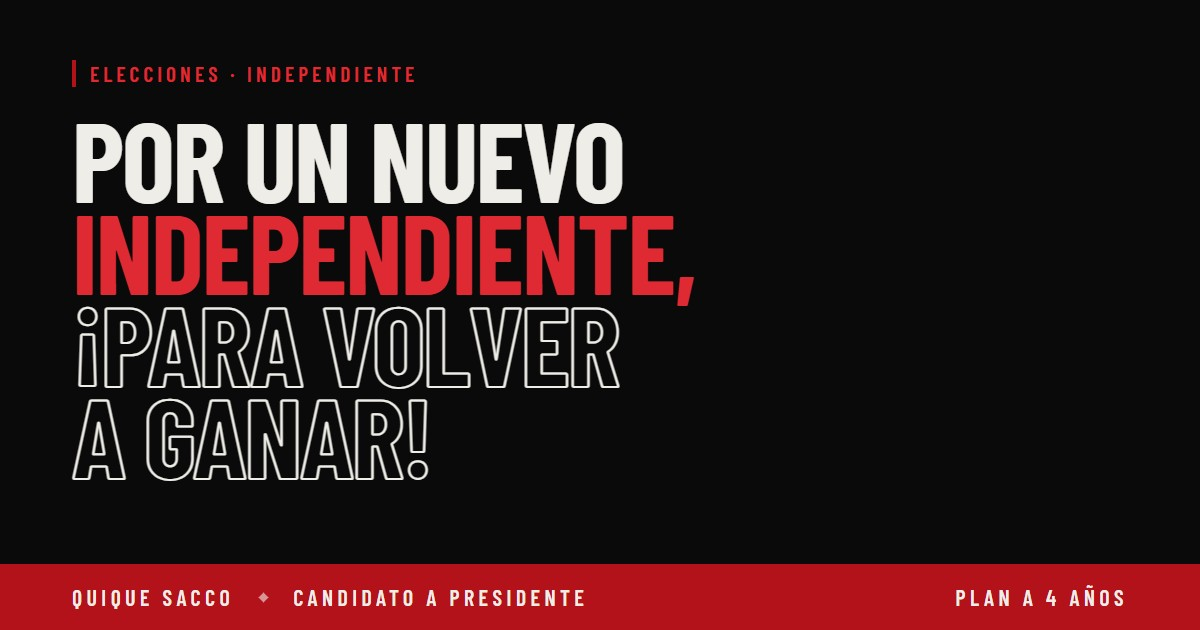
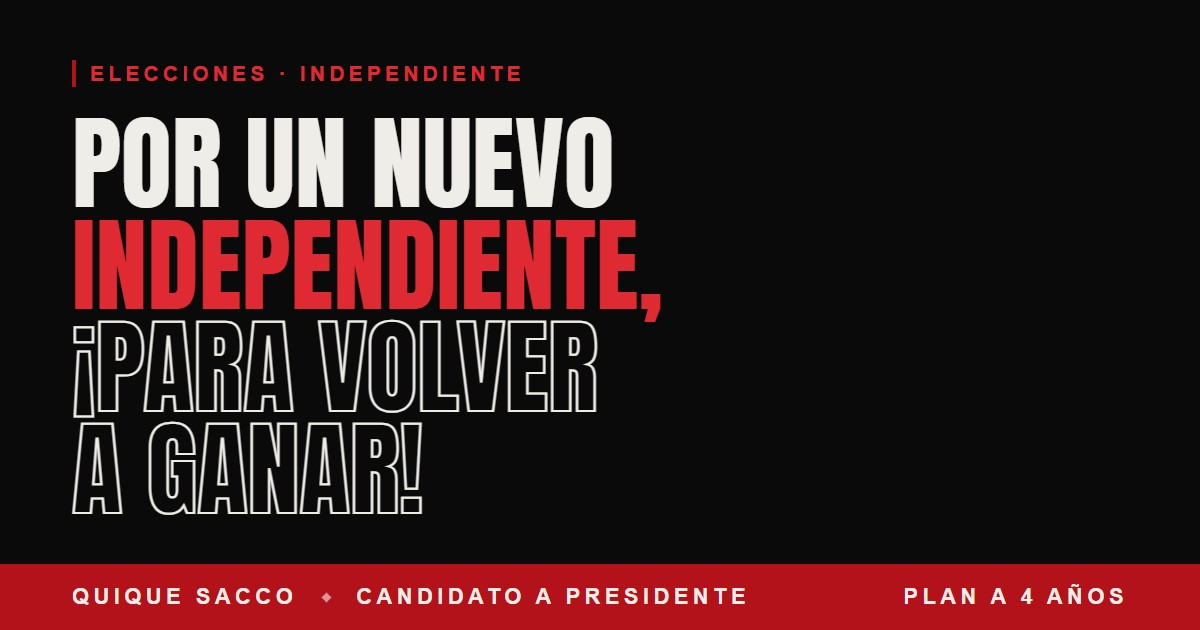
Tipografía: Anton en títulos fuertes y Helvetica en el resto
Ajusta el interlineado de los títulos para que no se corten las tildes
y regenera la imagen para redes con las mismas fuentes.

diff --git a/index.html b/index.html
@@ -25,7 +25,7 @@
 
 <link rel="preconnect" href="https://fonts.googleapis.com">
 <link rel="preconnect" href="https://fonts.gstatic.com" crossorigin>
-<link href="https://fonts.googleapis.com/css2?family=Barlow+Condensed:wght@400;500;600;700&family=Barlow:wght@300;400;500;600;700&display=swap" rel="stylesheet">
+<link href="https://fonts.googleapis.com/css2?family=Anton&display=swap" rel="stylesheet">
 
 <style>
 /* ============================================================
@@ -49,8 +49,8 @@
   --rojo-2:  #8E0E15;
   --rojo-hi: #E02A33;
 
-  --cond: "Barlow Condensed", "Arial Narrow", sans-serif;
-  --sans: "Barlow", -apple-system, BlinkMacSystemFont, "Segoe UI", system-ui, sans-serif;
+  --display: "Anton", Impact, "Arial Narrow", sans-serif;   /* títulos fuertes — Anton trae un solo peso (400) */
+  --sans: "Helvetica Neue", Helvetica, Arial, sans-serif;
 
   --page: 1280px;
   --gutter: clamp(20px, 5vw, 56px);
@@ -96,6 +96,7 @@ a{ color:inherit; }
 .ln{
   display:block; overflow:hidden;
   padding-bottom:.08em; margin-bottom:-.08em;   /* que no corte trazos ni descendentes */
+  padding-top:.22em; margin-top:-.22em;         /* ni las tildes de las mayúsculas (Anton es alta) */
 }
 .ln > i{
   display:block; font-style:normal;
@@ -114,12 +115,12 @@ a{ color:inherit; }
 
 /* ---------- tipografía ---------- */
 h1,h2,h3,.cond{
-  font-family:var(--cond); font-weight:700;
+  font-family:var(--display); font-weight:400;
   text-transform:uppercase; letter-spacing:-.005em;
-  line-height:.92; margin:0; text-wrap:balance;
+  line-height:1.04; margin:0; text-wrap:balance;
 }
 .tag{
-  display:inline-block; font-family:var(--cond); font-weight:600;
+  display:inline-block; font-family:var(--sans); font-weight:600;
   font-size:13px; letter-spacing:.2em; text-transform:uppercase;
   color:var(--rojo-hi); border-left:3px solid var(--rojo);
   padding-left:10px; line-height:1.3;
@@ -136,7 +137,7 @@ h1,h2,h3,.cond{
 .topbar.is-stuck{ border-bottom-color:var(--black-3); }
 .topbar__in{ display:flex; align-items:center; justify-content:space-between; min-height:62px; gap:var(--s-3); }
 .brand{
-  font-family:var(--cond); font-weight:700; font-size:22px; text-transform:uppercase;
+  font-family:var(--display); font-weight:400; font-size:22px; text-transform:uppercase;
   letter-spacing:.02em; text-decoration:none;
   display:inline-flex; align-items:center; min-height:44px;
 }
@@ -144,7 +145,7 @@ h1,h2,h3,.cond{
 .nav{ display:none; gap:var(--s-4); }
 @media (min-width:900px){ .nav{ display:flex; } }
 .nav a{
-  font-family:var(--cond); font-weight:600; font-size:15px;
+  font-family:var(--sans); font-weight:600; font-size:15px;
   letter-spacing:.14em; text-transform:uppercase;
   text-decoration:none; color:var(--gris);
   position:relative; padding:4px 0; transition:color .25s var(--ease);
@@ -166,7 +167,7 @@ h1,h2,h3,.cond{
 .hero h1{
   font-size:clamp(40px,7.5vw,100px);   /* respaldo para navegadores sin container queries */
   font-size:min(142px,17cqi);          /* atado al ancho de la columna: "Independiente," entra entero */
-  line-height:.82; letter-spacing:-.02em;
+  line-height:.98; letter-spacing:0;
   margin-block:var(--s-3) var(--s-3);
 }
 .hero h1 .l2 > i{ color:var(--rojo-hi); }
@@ -214,7 +215,7 @@ h1,h2,h3,.cond{
 .strip__group{
   display:flex; align-items:center; flex:none;
   padding-block:14px;
-  font-family:var(--cond); font-weight:600;
+  font-family:var(--sans); font-weight:600;
   font-size:15px; letter-spacing:.2em; text-transform:uppercase;
   white-space:nowrap;
 }
@@ -243,7 +244,7 @@ section{ padding-block:clamp(56px,8vw,var(--s-6)); }
 @media (min-width:820px){ .stats{ grid-template-columns:repeat(4,1fr); } }
 .stat{ background:var(--black); padding:var(--s-4) var(--s-3); }
 .stat b{
-  display:block; font-family:var(--cond); font-weight:700;
+  display:block; font-family:var(--display); font-weight:400;
   font-size:clamp(48px,7vw,80px); line-height:.9; color:var(--rojo-hi);
   font-variant-numeric:tabular-nums;
 }
@@ -274,7 +275,7 @@ section{ padding-block:clamp(56px,8vw,var(--s-6)); }
 .eje:hover .eje__n{ color:var(--hueso); }
 .eje:hover p{ color:rgba(239,237,232,.9); }
 .eje__n{
-  font-family:var(--cond); font-weight:700; font-size:clamp(34px,5vw,52px);
+  font-family:var(--display); font-weight:400; font-size:clamp(34px,5vw,52px);
   line-height:1; color:var(--rojo-hi); transition:color .4s var(--ease);
 }
 .eje h3{ font-size:clamp(26px,3.4vw,38px); }
@@ -283,12 +284,12 @@ section{ padding-block:clamp(56px,8vw,var(--s-6)); }
 /* ---------- bloque rojo a sangre ---------- */
 .block-red{ background:var(--rojo); color:var(--hueso); }
 .block-red blockquote{
-  margin:var(--s-3) 0 0; font-family:var(--cond); font-weight:700; text-transform:uppercase;
-  font-size:clamp(34px,7vw,92px); line-height:.94; letter-spacing:-.01em; max-width:16ch;
+  margin:var(--s-3) 0 0; font-family:var(--display); font-weight:400; text-transform:uppercase;
+  font-size:clamp(34px,7vw,92px); line-height:1.04; letter-spacing:0; max-width:24ch;
 }
 .block-red .tag{ color:rgba(239,237,232,.85); border-color:rgba(239,237,232,.5); }
 .block-red figcaption{
-  margin-top:var(--s-3); font-family:var(--cond); font-weight:500;
+  margin-top:var(--s-3); font-family:var(--sans); font-weight:500;
   font-size:14px; letter-spacing:.18em; text-transform:uppercase;
   color:rgba(239,237,232,.75);
 }
@@ -325,7 +326,7 @@ section{ padding-block:clamp(56px,8vw,var(--s-6)); }
   to  { transform:scale(1.7); opacity:0;  }
 }
 .video__disc svg{ width:40%; height:40%; fill:var(--hueso); margin-left:8%; }
-.video__label{ position:absolute; width:1px; height:1px; overflow:hidden; clip-path:inset(50%); white-space:nowrap; font-family:var(--cond); font-weight:600; font-size:15px; letter-spacing:.2em; text-transform:uppercase; }
+.video__label{ position:absolute; width:1px; height:1px; overflow:hidden; clip-path:inset(50%); white-space:nowrap; font-family:var(--sans); font-weight:600; font-size:15px; letter-spacing:.2em; text-transform:uppercase; }
 
 /* ---------- equipo ---------- */
 .team{ display:grid; gap:1px; background:var(--black-3); grid-template-columns:repeat(2,1fr); }
@@ -345,7 +346,7 @@ section{ padding-block:clamp(56px,8vw,var(--s-6)); }
   position:relative; overflow:hidden;
   display:inline-flex; align-items:center; gap:10px;
   min-height:50px; padding:0 26px;
-  font-family:var(--cond); font-weight:600; font-size:16px;
+  font-family:var(--sans); font-weight:600; font-size:16px;
   letter-spacing:.16em; text-transform:uppercase;
   text-decoration:none; cursor:pointer; border:2px solid var(--hueso);
   background:transparent; color:var(--hueso);
@@ -381,7 +382,7 @@ footer a:hover{ color:var(--hueso); }
 .mockup-badge{
   position:fixed; right:12px; bottom:12px; z-index:150;
   background:var(--rojo); color:var(--hueso);
-  font-family:var(--cond); font-weight:600;
+  font-family:var(--sans); font-weight:600;
   font-size:12px; letter-spacing:.16em; text-transform:uppercase;
   padding:7px 12px; opacity:.9;
 }

diff --git a/tools/og.html b/tools/og.html
@@ -14,7 +14,7 @@
 -->
 <link rel="preconnect" href="https://fonts.googleapis.com">
 <link rel="preconnect" href="https://fonts.gstatic.com" crossorigin>
-<link href="https://fonts.googleapis.com/css2?family=Barlow+Condensed:wght@600;700&family=Barlow:wght@400;500&display=swap" rel="stylesheet">
+<link href="https://fonts.googleapis.com/css2?family=Anton&display=swap" rel="stylesheet">
 <style>
   *{ box-sizing:border-box; margin:0; padding:0; }
   html,body{ background:#333; display:grid; place-items:center; min-height:100vh; }
@@ -24,16 +24,16 @@
     width:1200px; height:630px; position:relative; overflow:hidden;
     display:flex; flex-direction:column; justify-content:space-between;
     background:#0A0A0A; color:#EFEDE8;
-    font-family:"Barlow",sans-serif; padding:60px 72px 0;
+    font-family:"Helvetica Neue",Helvetica,Arial,sans-serif; padding:60px 72px 0;
   }
   .og .tag{
-    font-family:"Barlow Condensed",sans-serif; font-weight:600;
+    font-family:"Helvetica Neue",Helvetica,Arial,sans-serif; font-weight:600;
     font-size:21px; letter-spacing:.2em; text-transform:uppercase; color:#E02A33;
     border-left:4px solid #B4121B; padding-left:14px; line-height:1.3;
   }
   .og h1{
-    font-family:"Barlow Condensed",sans-serif; font-weight:700;
-    text-transform:uppercase; font-size:112px; line-height:.82; letter-spacing:-.02em;
+    font-family:"Anton",Impact,sans-serif; font-weight:400;
+    text-transform:uppercase; font-size:104px; line-height:.98; letter-spacing:0;
     margin-top:26px;
   }
   .og h1 span{ display:block; }
@@ -42,7 +42,7 @@
   .og .strip{
     background:#B4121B; margin:0 -72px; padding:20px 72px;
     display:flex; align-items:center; gap:26px;
-    font-family:"Barlow Condensed",sans-serif; font-weight:600;
+    font-family:"Helvetica Neue",Helvetica,Arial,sans-serif; font-weight:600;
     font-size:22px; letter-spacing:.2em; text-transform:uppercase;
   }
   .og .strip i{
